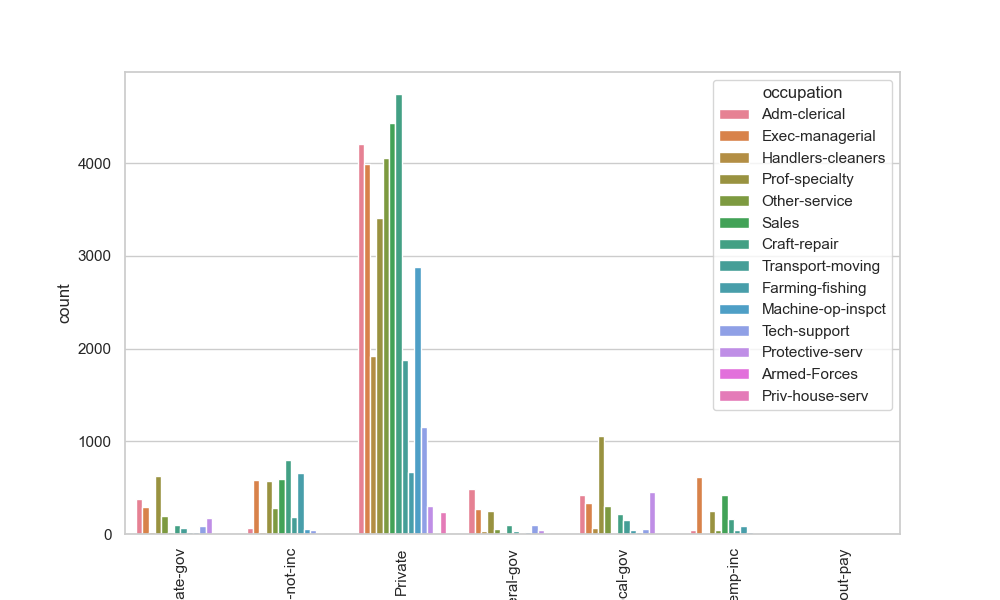
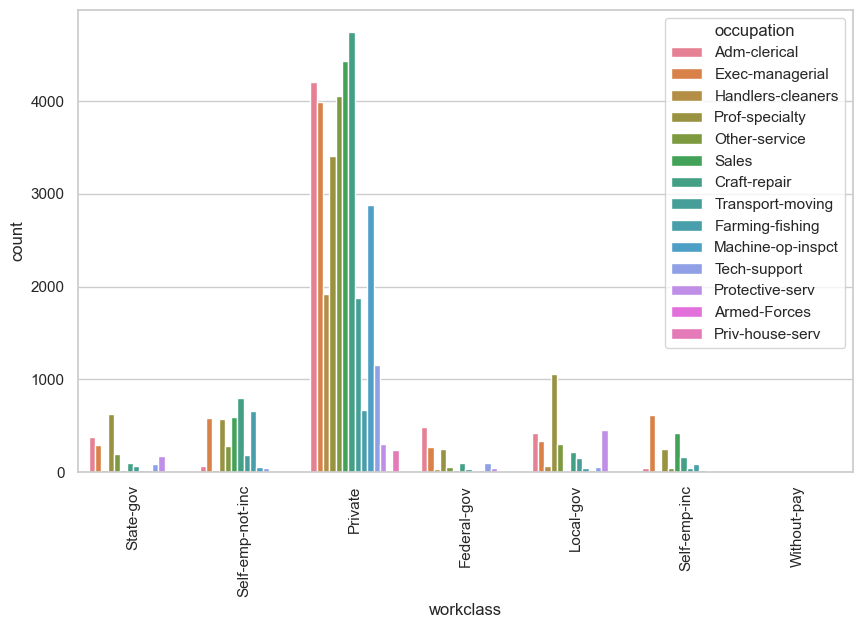
ci: plot updated, theory updated

diff --git a/census_income/README.md b/census_income/README.md
@@ -56,9 +56,24 @@ We want to find if there is any hidden relation between *workclass* and *ocupati
 For this reason, we are going to explore different techniques:
 - **Relation between both columns (cross-analysis):** We are going to see how the *workclass* and *occupation* columns are related in the rows where there are no missing values. (During this analysis, I realized that the dataframe contains '?' values, so I needed to change them to NaN).
 - **Relation visualization (countplot):** See if there are some plots that allows us to visualize clear patterns. 
-- **Conditional probability:** We are going to explore the conditional probability of a column given another column. For example, the probability that a person has a certain value in occupation given that we already know their workclass. This can help us decide how to fill in missing values in one column when the other is present.
 
-With these results, we can infere the following results for missing values anaylisis:
+![CountPlot](./plots/countplot_missing_values.png)
+
+- **Conditional probability:** We are going to explore the conditional probability of a column given another column. For example, the probability that a person has a certain value in occupation given that we already know their workclass. This can help us decide how to fill in missing values in one column when the other is present. Here, we present the probability of a person to have a certain workclass, given his occupation:
+
+| workclass        | Adm-clerical | Armed-Forces | Craft-repair | Exec-managerial | Farming-fishing | Handlers-cleaners | Machine-op-inspct | Other-service | Priv-house-serv | Prof-specialty | Protective-serv | Sales   | Tech-support | Transport-moving |
+|------------------|--------------|--------------|--------------|-----------------|-----------------|-------------------|-------------------|---------------|-----------------|----------------|-----------------|---------|--------------|------------------|
+| Federal-gov      | 0.086794     | 1.0          | 0.015216     | 0.044035        | 0.006040        | 0.017375          | 0.006287          | 0.011172      | 0.0             | 0.040992       | 0.047813        | 0.003089 | 0.066390     | 0.015711          |
+| Local-gov        | 0.075031     | 0.0          | 0.034522     | 0.054387        | 0.028859        | 0.031371          | 0.007942          | 0.060938      | 0.0             | 0.171905       | 0.457782        | 0.002907 | 0.040111     | 0.066242          |
+| Private          | 0.749955     | 0.0          | 0.776832     | 0.656425        | 0.449664        | 0.928089          | 0.953673          | 0.824091      | 1.0             | 0.552333       | 0.304171        | 0.806504 | 0.798064     | 0.798301          |
+| Self-emp-inc     | 0.008376     | 0.0          | 0.027323     | 0.101380        | 0.055034        | 0.002896          | 0.005625          | 0.008531      | 0.0             | 0.039695       | 0.005086        | 0.076308 | 0.006224     | 0.016136          |
+| Self-emp-not-inc | 0.012475     | 0.0          | 0.130563     | 0.096451        | 0.438255        | 0.010135          | 0.019523          | 0.056063      | 0.0             | 0.093163       | 0.007121        | 0.107376 | 0.029046     | 0.077707          |
+| State-gov        | 0.066833     | 0.0          | 0.015380     | 0.047157        | 0.016779        | 0.009170          | 0.006287          | 0.038797      | 0.0             | 0.101912       | 0.178026        | 0.003634 | 0.060166     | 0.025478          |
+| Without-pay      | 0.000535     | 0.0          | 0.000164     | 0.000164        | 0.005369        | 0.000965          | 0.000662          | 0.000406      | 0.0             | 0.000000       | 0.000000        | 0.000000 | 0.000000     | 0.000000          |
+
+
+
+**We can infere the following results for missing values anaylisis:**
 - **Unbalanced distribution:** As seen in the graph, most occupations belong to the *Private* class. This suggests that the *Private* class is dominant, and there is a strong relationship between occupation and job class.
 - **Conditional probabilities:** In the *Private* class, occupations such as *Craft-repair*, *Handlers-cleaners*, and *Machine-op-inspct* have a high probability (over 90%) of belonging to that class. Similarly, some occupations are exclusive to certain job classes, such as *Armed-Forces* in *Federal-gov*, or with *Priv-house-serv*, working as a *Private*
 
